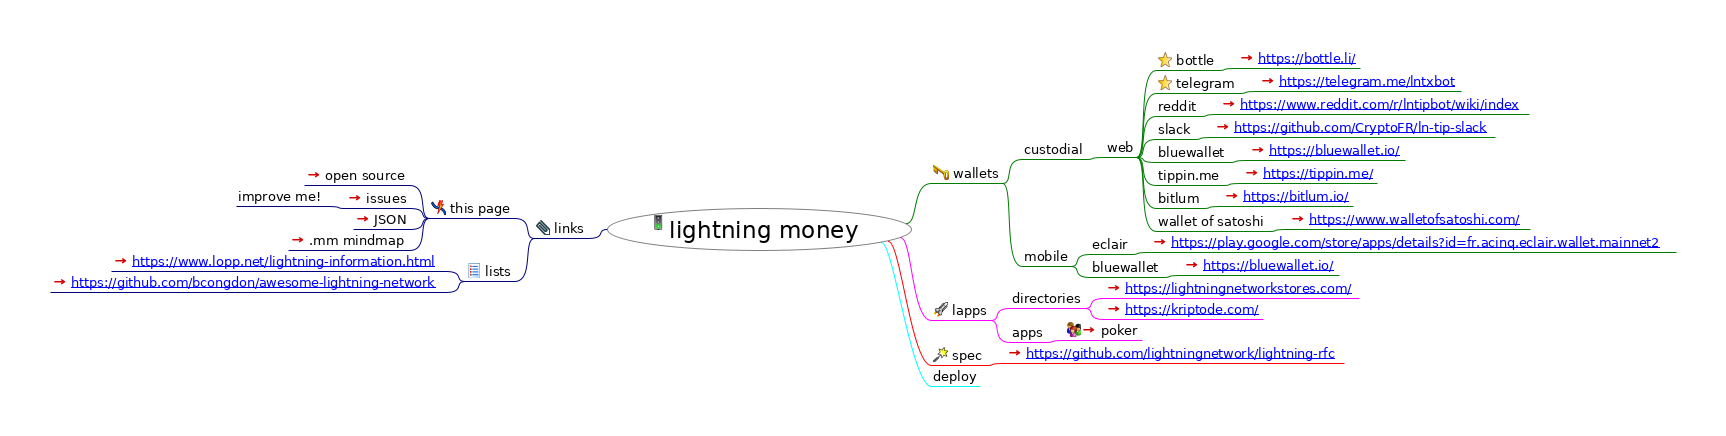
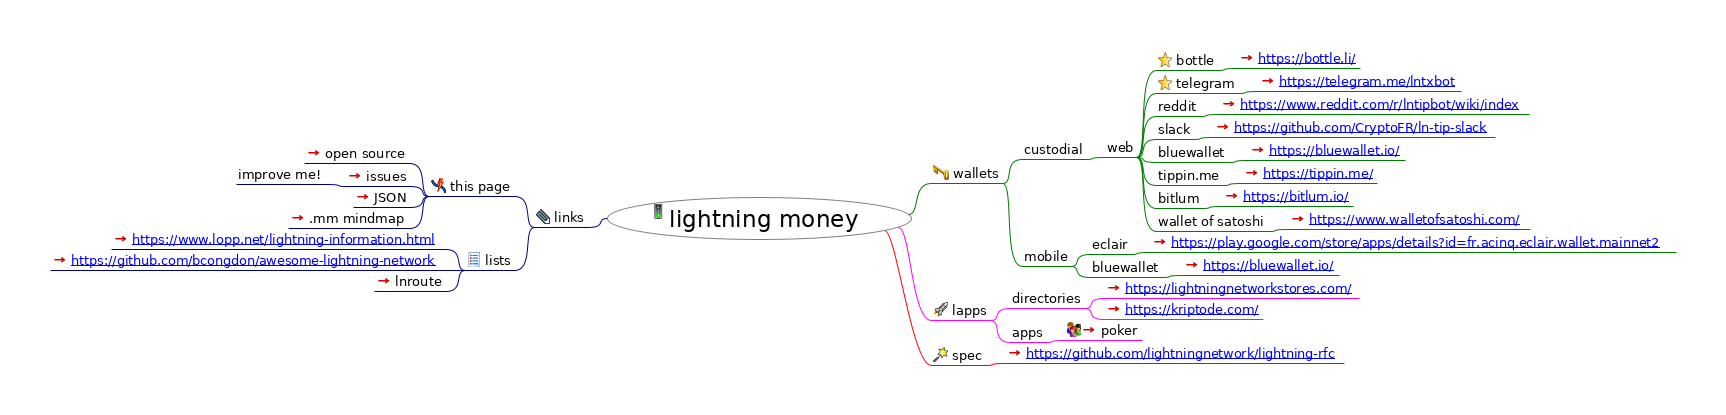
DEFAULT_MESSAGE

diff --git a/index.html b/index.html
@@ -23,7 +23,7 @@
                    };
                };
           
-          --></script></head><body><h1>lightning money</h1><div style="width:96%;  padding:2%;  margin-bottom:10px;  border: 0px;  text-align:center;  vertical-align:center;"><img src="index.html_files/image.png" style="margin-bottom:10px; &#9;border: 0px; &#9;text-align:center; &#9;vertical-align:center;" alt="Imagemap" usemap="#fm_imagemap" /></div><map name="fm_imagemap" id="fm_imagemap"><area shape="rect" href="#FMID_1568754813FM" alt="lightning money" title="lightning money" coords="607,208,912,251" />
+          --></script></head><body><h1>lightning money</h1><div style="width:96%;  padding:2%;  margin-bottom:10px;  border: 0px;  text-align:center;  vertical-align:center;"><img src="index.html_files/image.png" style="margin-bottom:10px; &#9;border: 0px; &#9;text-align:center; &#9;vertical-align:center;" alt="Imagemap" usemap="#fm_imagemap" /></div><map name="fm_imagemap" id="fm_imagemap"><area shape="rect" href="#FMID_1568754813FM" alt="lightning money" title="lightning money" coords="607,197,912,240" />
 <area shape="rect" href="#FMID_403237537FM" alt="wallets" title="wallets" coords="931,165,1003,183" />
 <area shape="rect" href="#FMID_713142011FM" alt="custodial" title="custodial" coords="1022,141,1086,159" />
 <area shape="rect" href="#FMID_1071283894FM" alt="web" title="web" coords="1105,139,1137,157" />
@@ -56,17 +56,17 @@
 <area shape="rect" href="#FMID_491528674FM" alt="poker" title="poker" coords="1065,322,1142,340" />
 <area shape="rect" href="#FMID_1721082161FM" alt="spec" title="spec" coords="931,347,986,365" />
 <area shape="rect" href="#FMID_1858353829FM" alt="https://github.com/lightningnetwork/ligh ..." title="https://github.com/lightningnetwork/ligh ..." coords="1005,345,1344,363" />
-<area shape="rect" href="#FMID_1272870724FM" alt="deploy" title="deploy" coords="931,368,980,386" />
-<area shape="rect" href="#FMID_728396892FM" alt="links" title="links" coords="534,220,588,238" />
-<area shape="rect" href="#FMID_1704672214FM" alt="this page" title="this page" coords="429,200,515,218" />
-<area shape="rect" href="#FMID_1211678675FM" alt="open source" title="open source" coords="304,167,410,185" />
-<area shape="rect" href="#FMID_1677347904FM" alt="issues" title="issues" coords="345,190,410,208" />
-<area shape="rect" href="#FMID_824388782FM" alt="improve me!" title="improve me!" coords="236,188,326,206" />
-<area shape="rect" href="#FMID_903253757FM" alt="JSON" title="JSON" coords="353,211,410,229" />
-<area shape="rect" href="#FMID_963935095FM" alt=".mm mindmap" title=".mm mindmap" coords="288,232,410,250" />
-<area shape="rect" href="#FMID_1744026554FM" alt="lists" title="lists" coords="465,263,515,281" />
-<area shape="rect" href="#FMID_1897426799FM" alt="https://www.lopp.net/lightning-informati ..." title="https://www.lopp.net/lightning-informati ..." coords="111,253,446,271" />
-<area shape="rect" href="#FMID_1244510370FM" alt="https://github.com/bcongdon/awesome-ligh ..." title="https://github.com/bcongdon/awesome-ligh ..." coords="50,274,446,292" />
+<area shape="rect" href="#FMID_728396892FM" alt="links" title="links" coords="534,209,588,227" />
+<area shape="rect" href="#FMID_1704672214FM" alt="this page" title="this page" coords="429,178,515,196" />
+<area shape="rect" href="#FMID_1211678675FM" alt="open source" title="open source" coords="304,145,410,163" />
+<area shape="rect" href="#FMID_1677347904FM" alt="issues" title="issues" coords="345,168,410,186" />
+<area shape="rect" href="#FMID_824388782FM" alt="improve me!" title="improve me!" coords="236,166,326,184" />
+<area shape="rect" href="#FMID_903253757FM" alt="JSON" title="JSON" coords="353,189,410,207" />
+<area shape="rect" href="#FMID_963935095FM" alt=".mm mindmap" title=".mm mindmap" coords="288,210,410,228" />
+<area shape="rect" href="#FMID_1744026554FM" alt="lists" title="lists" coords="465,252,515,270" />
+<area shape="rect" href="#FMID_1897426799FM" alt="https://www.lopp.net/lightning-informati ..." title="https://www.lopp.net/lightning-informati ..." coords="111,231,446,249" />
+<area shape="rect" href="#FMID_1244510370FM" alt="https://github.com/bcongdon/awesome-ligh ..." title="https://github.com/bcongdon/awesome-ligh ..." coords="50,252,446,270" />
+<area shape="rect" href="#FMID_1451851808FM" alt="lnroute" title="lnroute" coords="374,273,446,291" />
 </map>
 
 <div class="node"><img src="index.html_files/hide.png" class="hideshow" alt="hide" onClick="toggle(&quot;N65543&quot;)" id="imgN65543" /><img src="index.html_files/icons/go.svg" alt="go" /> <a id="FMID_1568754813FM" /><div class="nodecontent" style="color:#000000;font-size:150%;">lightning money</div><div class="content" id="N65543"><div class="node"><img src="index.html_files/hide.png" class="hideshow" alt="hide" onClick="toggle(&quot;N66444&quot;)" id="imgN66444" /><img src="index.html_files/icons/password.svg" alt="password" /> <a id="FMID_403237537FM" /><div class="nodecontent" style="color:#000000;font-size:83%;">wallets</div><div class="content" id="N66444"><div class="node"><img src="index.html_files/hide.png" class="hideshow" alt="hide" onClick="toggle(&quot;N66485&quot;)" id="imgN66485" /><a id="FMID_713142011FM" /><div class="nodecontent" style="color:#000000;font-size:83%;">custodial</div><div class="content" id="N66485"><div class="node"><img src="index.html_files/hide.png" class="hideshow" alt="hide" onClick="toggle(&quot;N66520&quot;)" id="imgN66520" /><a id="FMID_1071283894FM" /><div class="nodecontent" style="color:#000000;font-size:83%;">web</div><div class="content" id="N66520"><div class="node"><img src="index.html_files/hide.png" class="hideshow" alt="hide" onClick="toggle(&quot;N66555&quot;)" id="imgN66555" /><img src="index.html_files/icons/bookmark.svg" alt="bookmark" /> <a id="FMID_432921303FM" /><div class="nodecontent" style="color:#000000;font-size:83%;">bottle</div><div class="content" id="N66555"><div class="node"><img src="index.html_files/leaf.png" class="hideshow" alt="leaf" /><a id="FMID_1723379621FM" /><div class="nodecontent" style="color:#000000;font-size:83%;"><a href="https://bottle.li/">
@@ -95,9 +95,9 @@
     <a http-equiv="content-type" content="text/html; charset=utf-8" href="https://kriptode.com/">https://kriptode.com/</a>
   </a> <a href="https://kriptode.com/"><img src="index.html_files/ilink.png" alt="User Link" style="border-width:0" /></a></div></div></div></div><div class="node"><img src="index.html_files/hide.png" class="hideshow" alt="hide" onClick="toggle(&quot;N67701&quot;)" id="imgN67701" /><a id="FMID_1371138197FM" /><div class="nodecontent" style="color:#000000;font-size:83%;">apps</div><div class="content" id="N67701"><div class="node"><img src="index.html_files/leaf.png" class="hideshow" alt="leaf" /><img src="index.html_files/icons/group.svg" alt="group" /> <a id="FMID_491528674FM" /><div class="nodecontent" style="color:#000000;font-size:83%;"><a href="https://lightning-poker.com/">poker</a> <a href="https://lightning-poker.com/"><img src="index.html_files/ilink.png" alt="User Link" style="border-width:0" /></a></div></div></div></div></div></div><div class="node"><img src="index.html_files/hide.png" class="hideshow" alt="hide" onClick="toggle(&quot;N67780&quot;)" id="imgN67780" /><img src="index.html_files/icons/wizard.svg" alt="wizard" /> <a id="FMID_1721082161FM" /><div class="nodecontent" style="color:#000000;font-size:83%;">spec</div><div class="content" id="N67780"><div class="node"><img src="index.html_files/leaf.png" class="hideshow" alt="leaf" /><a id="FMID_1858353829FM" /><div class="nodecontent" style="color:#000000;font-size:83%;"><a href="https://github.com/lightningnetwork/lightning-rfc">
     <a http-equiv="content-type" content="text/html; charset=utf-8" href="https://github.com/lightningnetwork/lightning-rfc">https://github.com/lightningnetwork/lightning-rfc</a>
-  </a> <a href="https://github.com/lightningnetwork/lightning-rfc"><img src="index.html_files/ilink.png" alt="User Link" style="border-width:0" /></a></div></div></div></div><div class="node"><img src="index.html_files/leaf.png" class="hideshow" alt="leaf" /><a id="FMID_1272870724FM" /><div class="nodecontent" style="color:#000000;font-size:83%;">deploy</div></div><div class="node"><img src="index.html_files/hide.png" class="hideshow" alt="hide" onClick="toggle(&quot;N67914&quot;)" id="imgN67914" /><img src="index.html_files/icons/attach.svg" alt="attach" /> <a id="FMID_728396892FM" /><div class="nodecontent" style="color:#000000;font-size:83%;">links</div><div class="content" id="N67914"><div class="node"><img src="index.html_files/hide.png" class="hideshow" alt="hide" onClick="toggle(&quot;N67955&quot;)" id="imgN67955" /><img src="index.html_files/icons/broken-line.svg" alt="broken-line" /> <a id="FMID_1704672214FM" /><div class="nodecontent" style="color:#000000;font-size:83%;">this page</div><div class="content" id="N67955"><div class="node"><img src="index.html_files/leaf.png" class="hideshow" alt="leaf" /><a id="FMID_1211678675FM" /><div class="nodecontent" style="color:#000000;font-size:83%;"><a href="https://github.com/solidpayorg/lightning.money/">open source</a> <a href="https://github.com/solidpayorg/lightning.money/"><img src="index.html_files/ilink.png" alt="User Link" style="border-width:0" /></a></div></div><div class="node"><img src="index.html_files/hide.png" class="hideshow" alt="hide" onClick="toggle(&quot;N68032&quot;)" id="imgN68032" /><a id="FMID_1677347904FM" /><div class="nodecontent" style="color:#000000;font-size:83%;"><a href="https://github.com/solidpayorg/lightning.money/issues">issues</a> <a href="https://github.com/solidpayorg/lightning.money/issues"><img src="index.html_files/ilink.png" alt="User Link" style="border-width:0" /></a></div><div class="content" id="N68032"><div class="node"><img src="index.html_files/leaf.png" class="hideshow" alt="leaf" /><a id="FMID_824388782FM" /><div class="nodecontent" style="color:#000000;font-size:83%;">improve me!</div></div></div></div><div class="node"><img src="index.html_files/leaf.png" class="hideshow" alt="leaf" /><a id="FMID_903253757FM" /><div class="nodecontent" style="color:#000000;font-size:83%;"><a href="index.json">JSON</a> <a href="index.json"><img src="index.html_files/ilink.png" alt="User Link" style="border-width:0" /></a></div></div><div class="node"><img src="index.html_files/leaf.png" class="hideshow" alt="leaf" /><a id="FMID_963935095FM" /><div class="nodecontent" style="color:#000000;font-size:83%;"><a href="index.html">.mm mindmap</a> <a href="index.html"><img src="index.html_files/ilink.png" alt="User Link" style="border-width:0" /></a></div></div></div></div><div class="node"><img src="index.html_files/hide.png" class="hideshow" alt="hide" onClick="toggle(&quot;N68180&quot;)" id="imgN68180" /><img src="index.html_files/icons/list.svg" alt="list" /> <a id="FMID_1744026554FM" /><div class="nodecontent" style="color:#000000;font-size:83%;">lists</div><div class="content" id="N68180"><div class="node"><img src="index.html_files/leaf.png" class="hideshow" alt="leaf" /><a id="FMID_1897426799FM" /><div class="nodecontent" style="color:#000000;font-size:83%;"><a href="https://www.lopp.net/lightning-information.html">
+  </a> <a href="https://github.com/lightningnetwork/lightning-rfc"><img src="index.html_files/ilink.png" alt="User Link" style="border-width:0" /></a></div></div></div></div><div class="node"><img src="index.html_files/hide.png" class="hideshow" alt="hide" onClick="toggle(&quot;N67877&quot;)" id="imgN67877" /><img src="index.html_files/icons/attach.svg" alt="attach" /> <a id="FMID_728396892FM" /><div class="nodecontent" style="color:#000000;font-size:83%;">links</div><div class="content" id="N67877"><div class="node"><img src="index.html_files/hide.png" class="hideshow" alt="hide" onClick="toggle(&quot;N67918&quot;)" id="imgN67918" /><img src="index.html_files/icons/broken-line.svg" alt="broken-line" /> <a id="FMID_1704672214FM" /><div class="nodecontent" style="color:#000000;font-size:83%;">this page</div><div class="content" id="N67918"><div class="node"><img src="index.html_files/leaf.png" class="hideshow" alt="leaf" /><a id="FMID_1211678675FM" /><div class="nodecontent" style="color:#000000;font-size:83%;"><a href="https://github.com/solidpayorg/lightning.money/">open source</a> <a href="https://github.com/solidpayorg/lightning.money/"><img src="index.html_files/ilink.png" alt="User Link" style="border-width:0" /></a></div></div><div class="node"><img src="index.html_files/hide.png" class="hideshow" alt="hide" onClick="toggle(&quot;N67995&quot;)" id="imgN67995" /><a id="FMID_1677347904FM" /><div class="nodecontent" style="color:#000000;font-size:83%;"><a href="https://github.com/solidpayorg/lightning.money/issues">issues</a> <a href="https://github.com/solidpayorg/lightning.money/issues"><img src="index.html_files/ilink.png" alt="User Link" style="border-width:0" /></a></div><div class="content" id="N67995"><div class="node"><img src="index.html_files/leaf.png" class="hideshow" alt="leaf" /><a id="FMID_824388782FM" /><div class="nodecontent" style="color:#000000;font-size:83%;">improve me!</div></div></div></div><div class="node"><img src="index.html_files/leaf.png" class="hideshow" alt="leaf" /><a id="FMID_903253757FM" /><div class="nodecontent" style="color:#000000;font-size:83%;"><a href="index.json">JSON</a> <a href="index.json"><img src="index.html_files/ilink.png" alt="User Link" style="border-width:0" /></a></div></div><div class="node"><img src="index.html_files/leaf.png" class="hideshow" alt="leaf" /><a id="FMID_963935095FM" /><div class="nodecontent" style="color:#000000;font-size:83%;"><a href="index.html">.mm mindmap</a> <a href="index.html"><img src="index.html_files/ilink.png" alt="User Link" style="border-width:0" /></a></div></div></div></div><div class="node"><img src="index.html_files/hide.png" class="hideshow" alt="hide" onClick="toggle(&quot;N68143&quot;)" id="imgN68143" /><img src="index.html_files/icons/list.svg" alt="list" /> <a id="FMID_1744026554FM" /><div class="nodecontent" style="color:#000000;font-size:83%;">lists</div><div class="content" id="N68143"><div class="node"><img src="index.html_files/leaf.png" class="hideshow" alt="leaf" /><a id="FMID_1897426799FM" /><div class="nodecontent" style="color:#000000;font-size:83%;"><a href="https://www.lopp.net/lightning-information.html">
     <a http-equiv="content-type" content="text/html; charset=utf-8" href="https://www.lopp.net/lightning-information.html">https://www.lopp.net/lightning-information.html</a>
   </a> <a href="https://www.lopp.net/lightning-information.html"><img src="index.html_files/ilink.png" alt="User Link" style="border-width:0" /></a></div></div><div class="node"><img src="index.html_files/leaf.png" class="hideshow" alt="leaf" /><a id="FMID_1244510370FM" /><div class="nodecontent" style="color:#000000;font-size:83%;"><a href="https://github.com/bcongdon/awesome-lightning-network">
     <a http-equiv="content-type" content="text/html; charset=utf-8" href="https://github.com/bcongdon/awesome-lightning-network">https://github.com/bcongdon/awesome-lightning-network</a>
-  </a> <a href="https://github.com/bcongdon/awesome-lightning-network"><img src="index.html_files/ilink.png" alt="User Link" style="border-width:0" /></a></div></div></div></div></div></div></div></div>
+  </a> <a href="https://github.com/bcongdon/awesome-lightning-network"><img src="index.html_files/ilink.png" alt="User Link" style="border-width:0" /></a></div></div><div class="node"><img src="index.html_files/leaf.png" class="hideshow" alt="leaf" /><a id="FMID_1451851808FM" /><div class="nodecontent" style="color:#000000;font-size:83%;"><a href="https://lnroute.com/">lnroute</a> <a href="https://lnroute.com/"><img src="index.html_files/ilink.png" alt="User Link" style="border-width:0" /></a></div></div></div></div></div></div></div></div>
 </body></html>

diff --git a/index.mm b/index.mm
@@ -64,7 +64,7 @@
 </stylenode>
 </map_styles>
 </hook>
-<hook NAME="AutomaticEdgeColor" COUNTER="5" RULE="ON_BRANCH_CREATION"/>
+<hook NAME="AutomaticEdgeColor" COUNTER="9" RULE="ON_BRANCH_CREATION"/>
 <node TEXT="wallets" POSITION="right" ID="ID_403237537" CREATED="1569861472802" MODIFIED="1569861865685">
 <icon BUILTIN="password"/>
 <edge COLOR="#007c00"/>
@@ -268,8 +268,8 @@
 </richcontent>
 </node>
 </node>
-<node TEXT="deploy" POSITION="right" ID="ID_1272870724" CREATED="1570182358202" MODIFIED="1570182916529">
-<edge COLOR="#00ffff"/>
+<node TEXT="deploy" POSITION="right" ID="ID_615083298" CREATED="1570185945063" MODIFIED="1570185946895">
+<edge COLOR="#7c007c"/>
 </node>
 <node TEXT="links" POSITION="left" ID="ID_728396892" CREATED="1569861329090" MODIFIED="1569861329093">
 <icon BUILTIN="attach"/>
@@ -309,6 +309,7 @@
 </html>
 </richcontent>
 </node>
+<node TEXT="lnroute" ID="ID_1451851808" CREATED="1570185749629" MODIFIED="1570185757230" LINK="https://lnroute.com/"/>
 </node>
 </node>
 </node>
